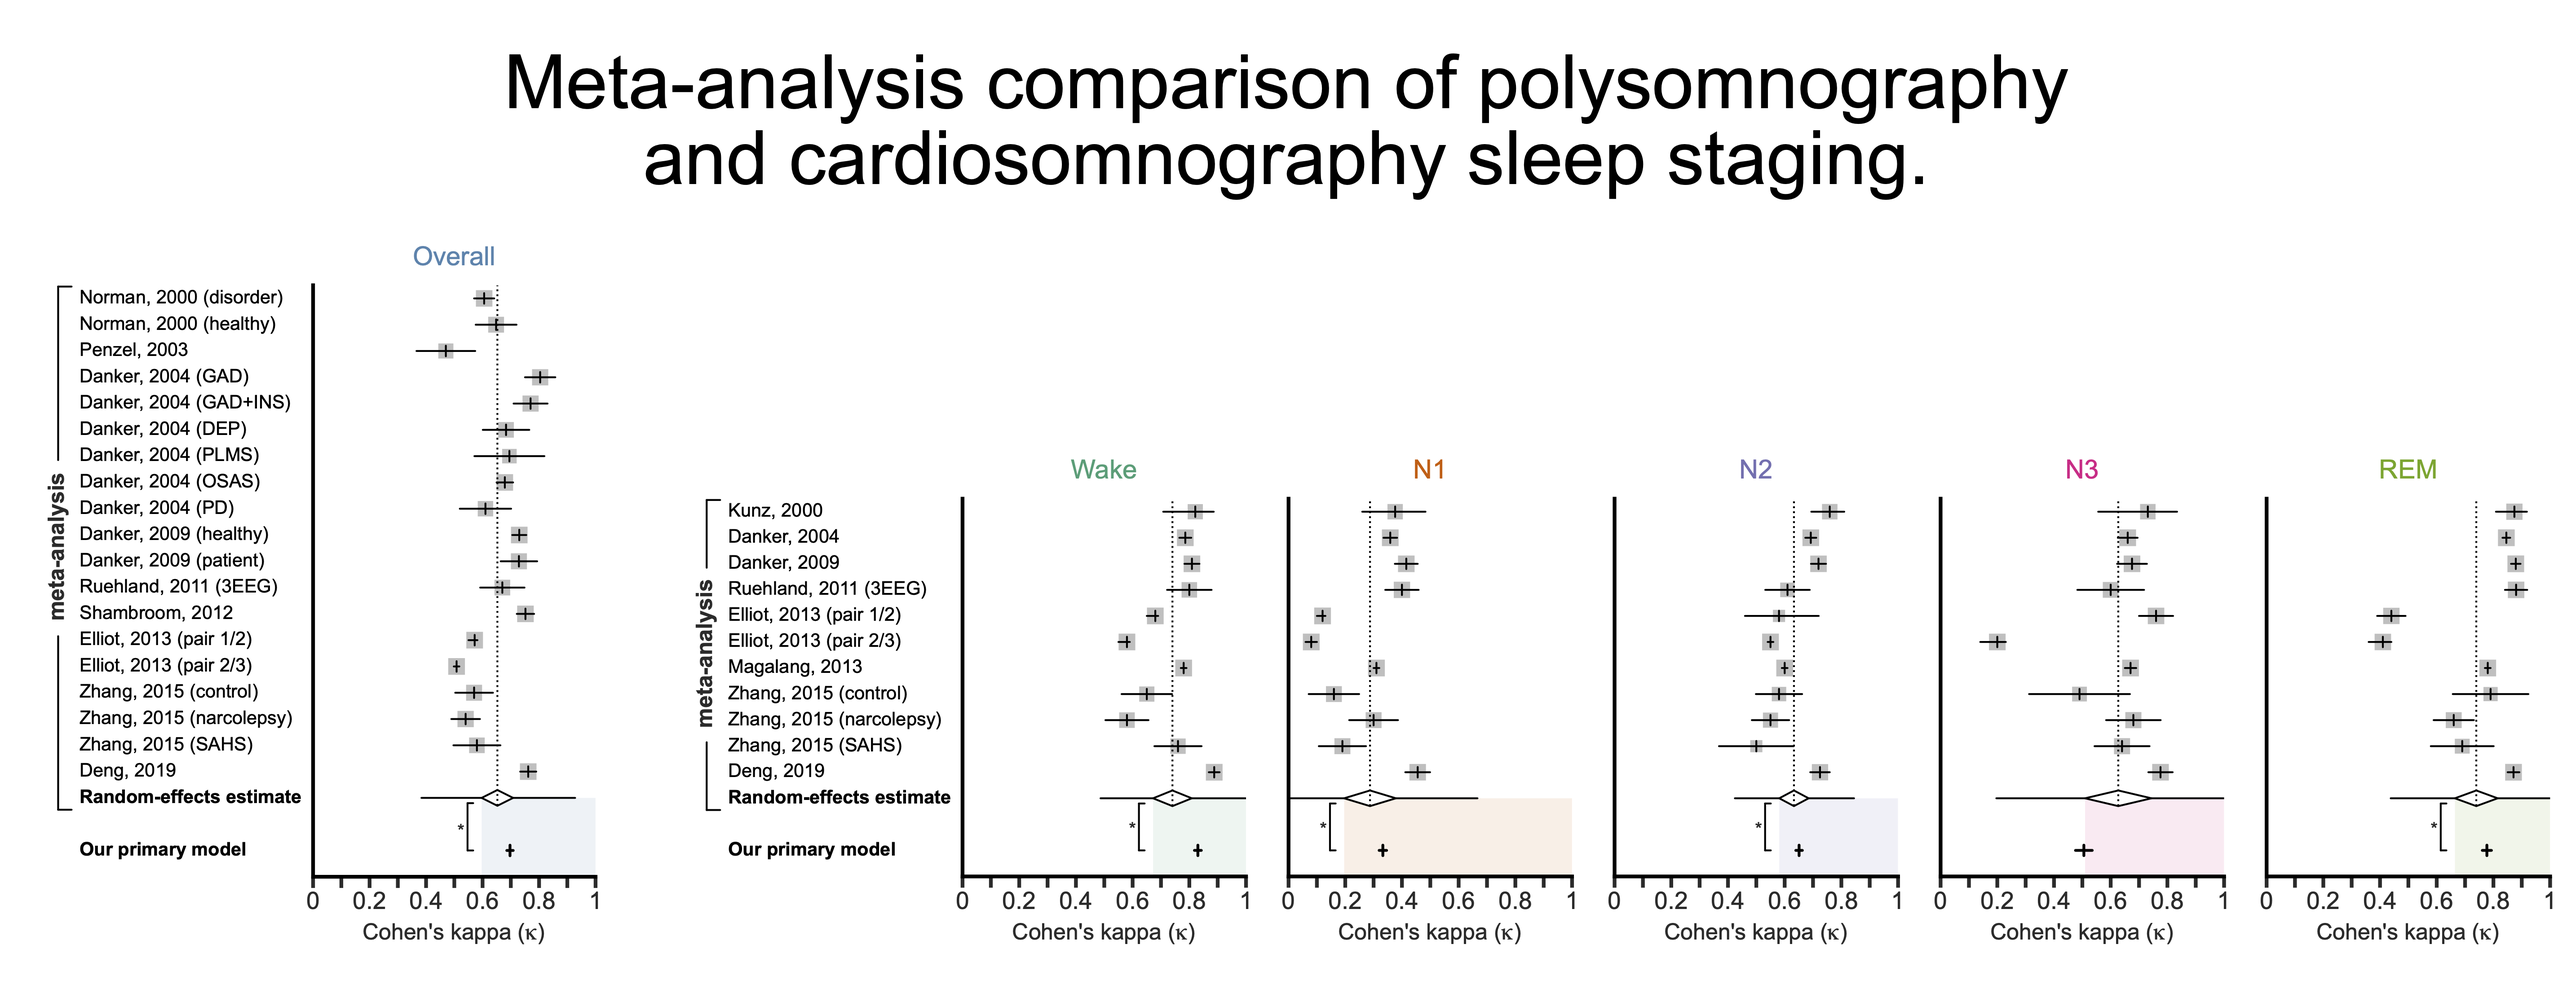
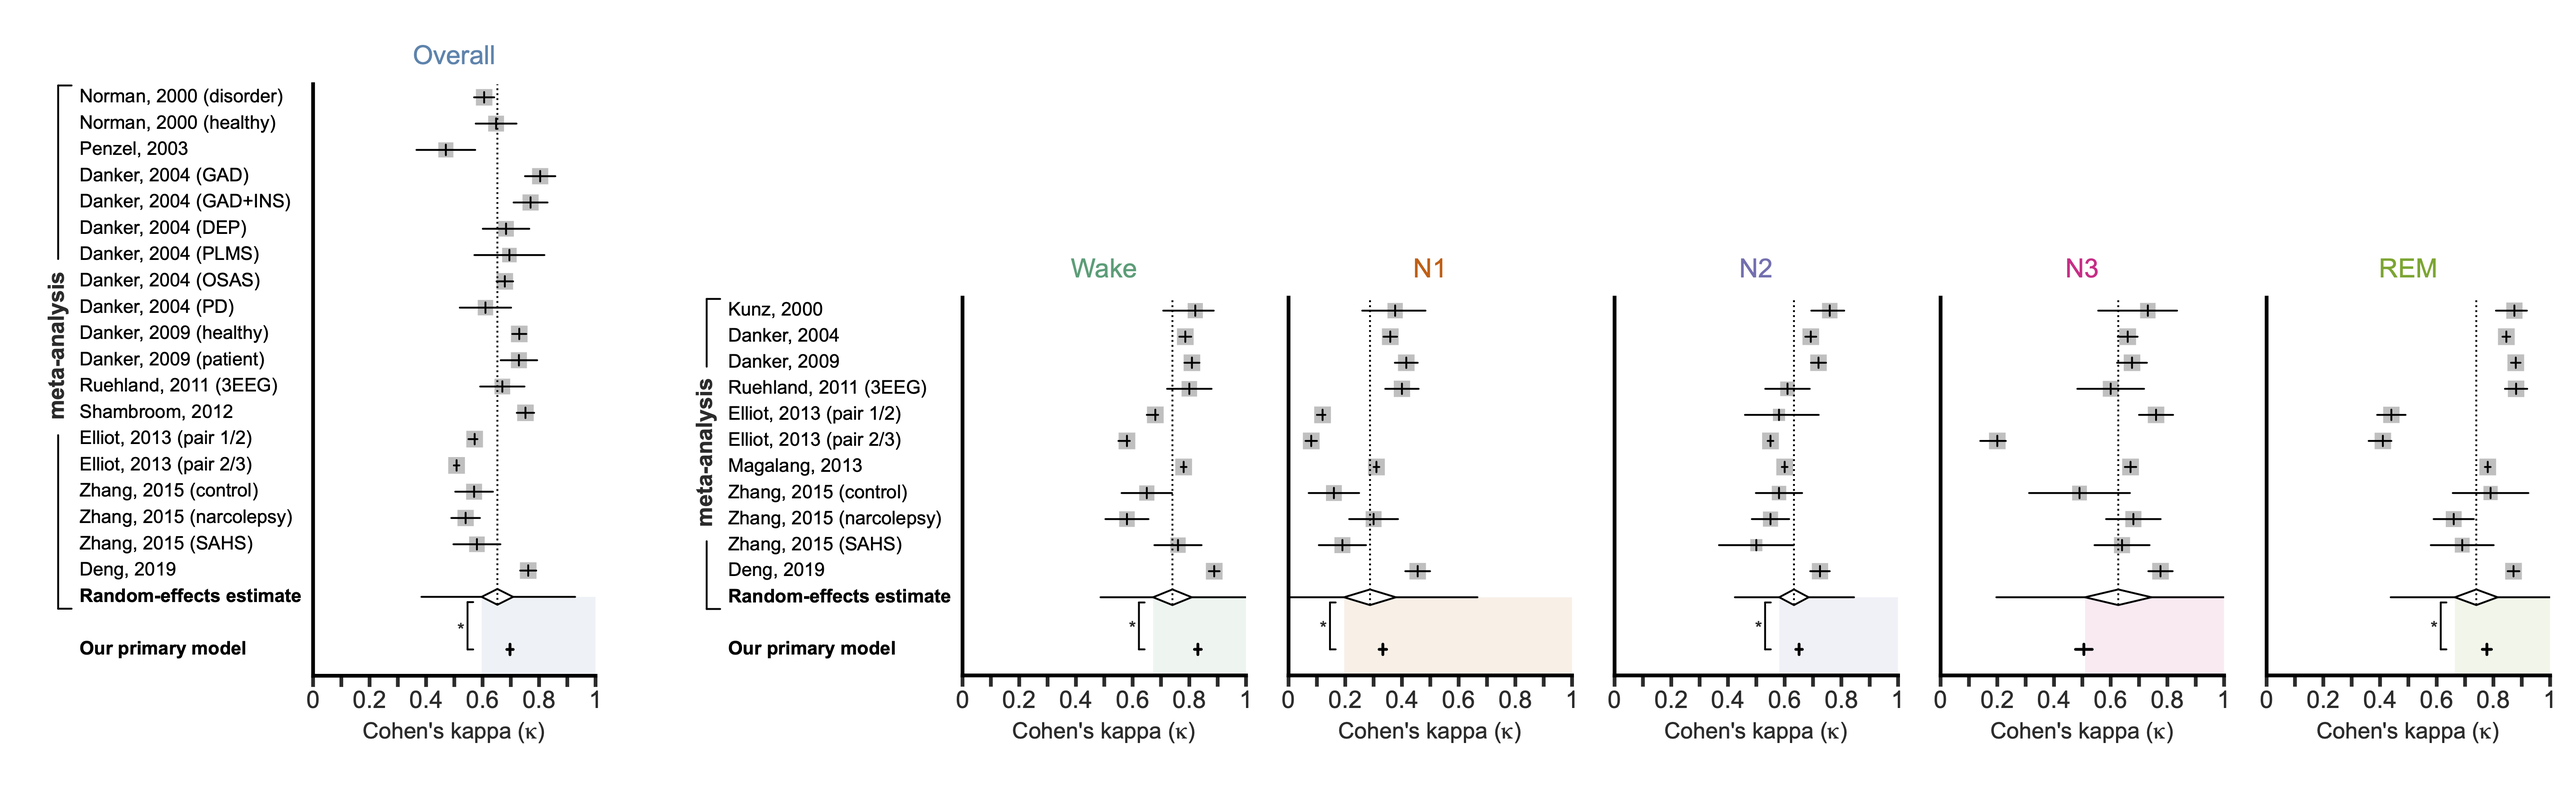
Improve figure caption text.

diff --git a/docs/index.md b/docs/index.md
@@ -11,7 +11,10 @@ We propose the term "**cardiosomnography**" (**CSG**) for any sleep study that c
 
 We demonstrate in our recent [paper](<https://doi.org/10.1016/j.compbiomed.2024.108545>) that it is now possible to score sleep at equivalent performance to expert human-scored polysomnography (PSG) using only ECG. Our method offers an inexpensive, automated, and convenient alternative for sleep stage classification—further enhanced by a real-time scoring option.
 
+<div style="text-align: center;">
+Meta-analysis comparison of polysomnography and cardiosomnography sleep staging:
 <img src="assets/meta-analysis.png" alt="">
+</div>
 
 Read the [paper](<https://doi.org/10.1016/j.compbiomed.2024.108545>) to find out more [1].
 
